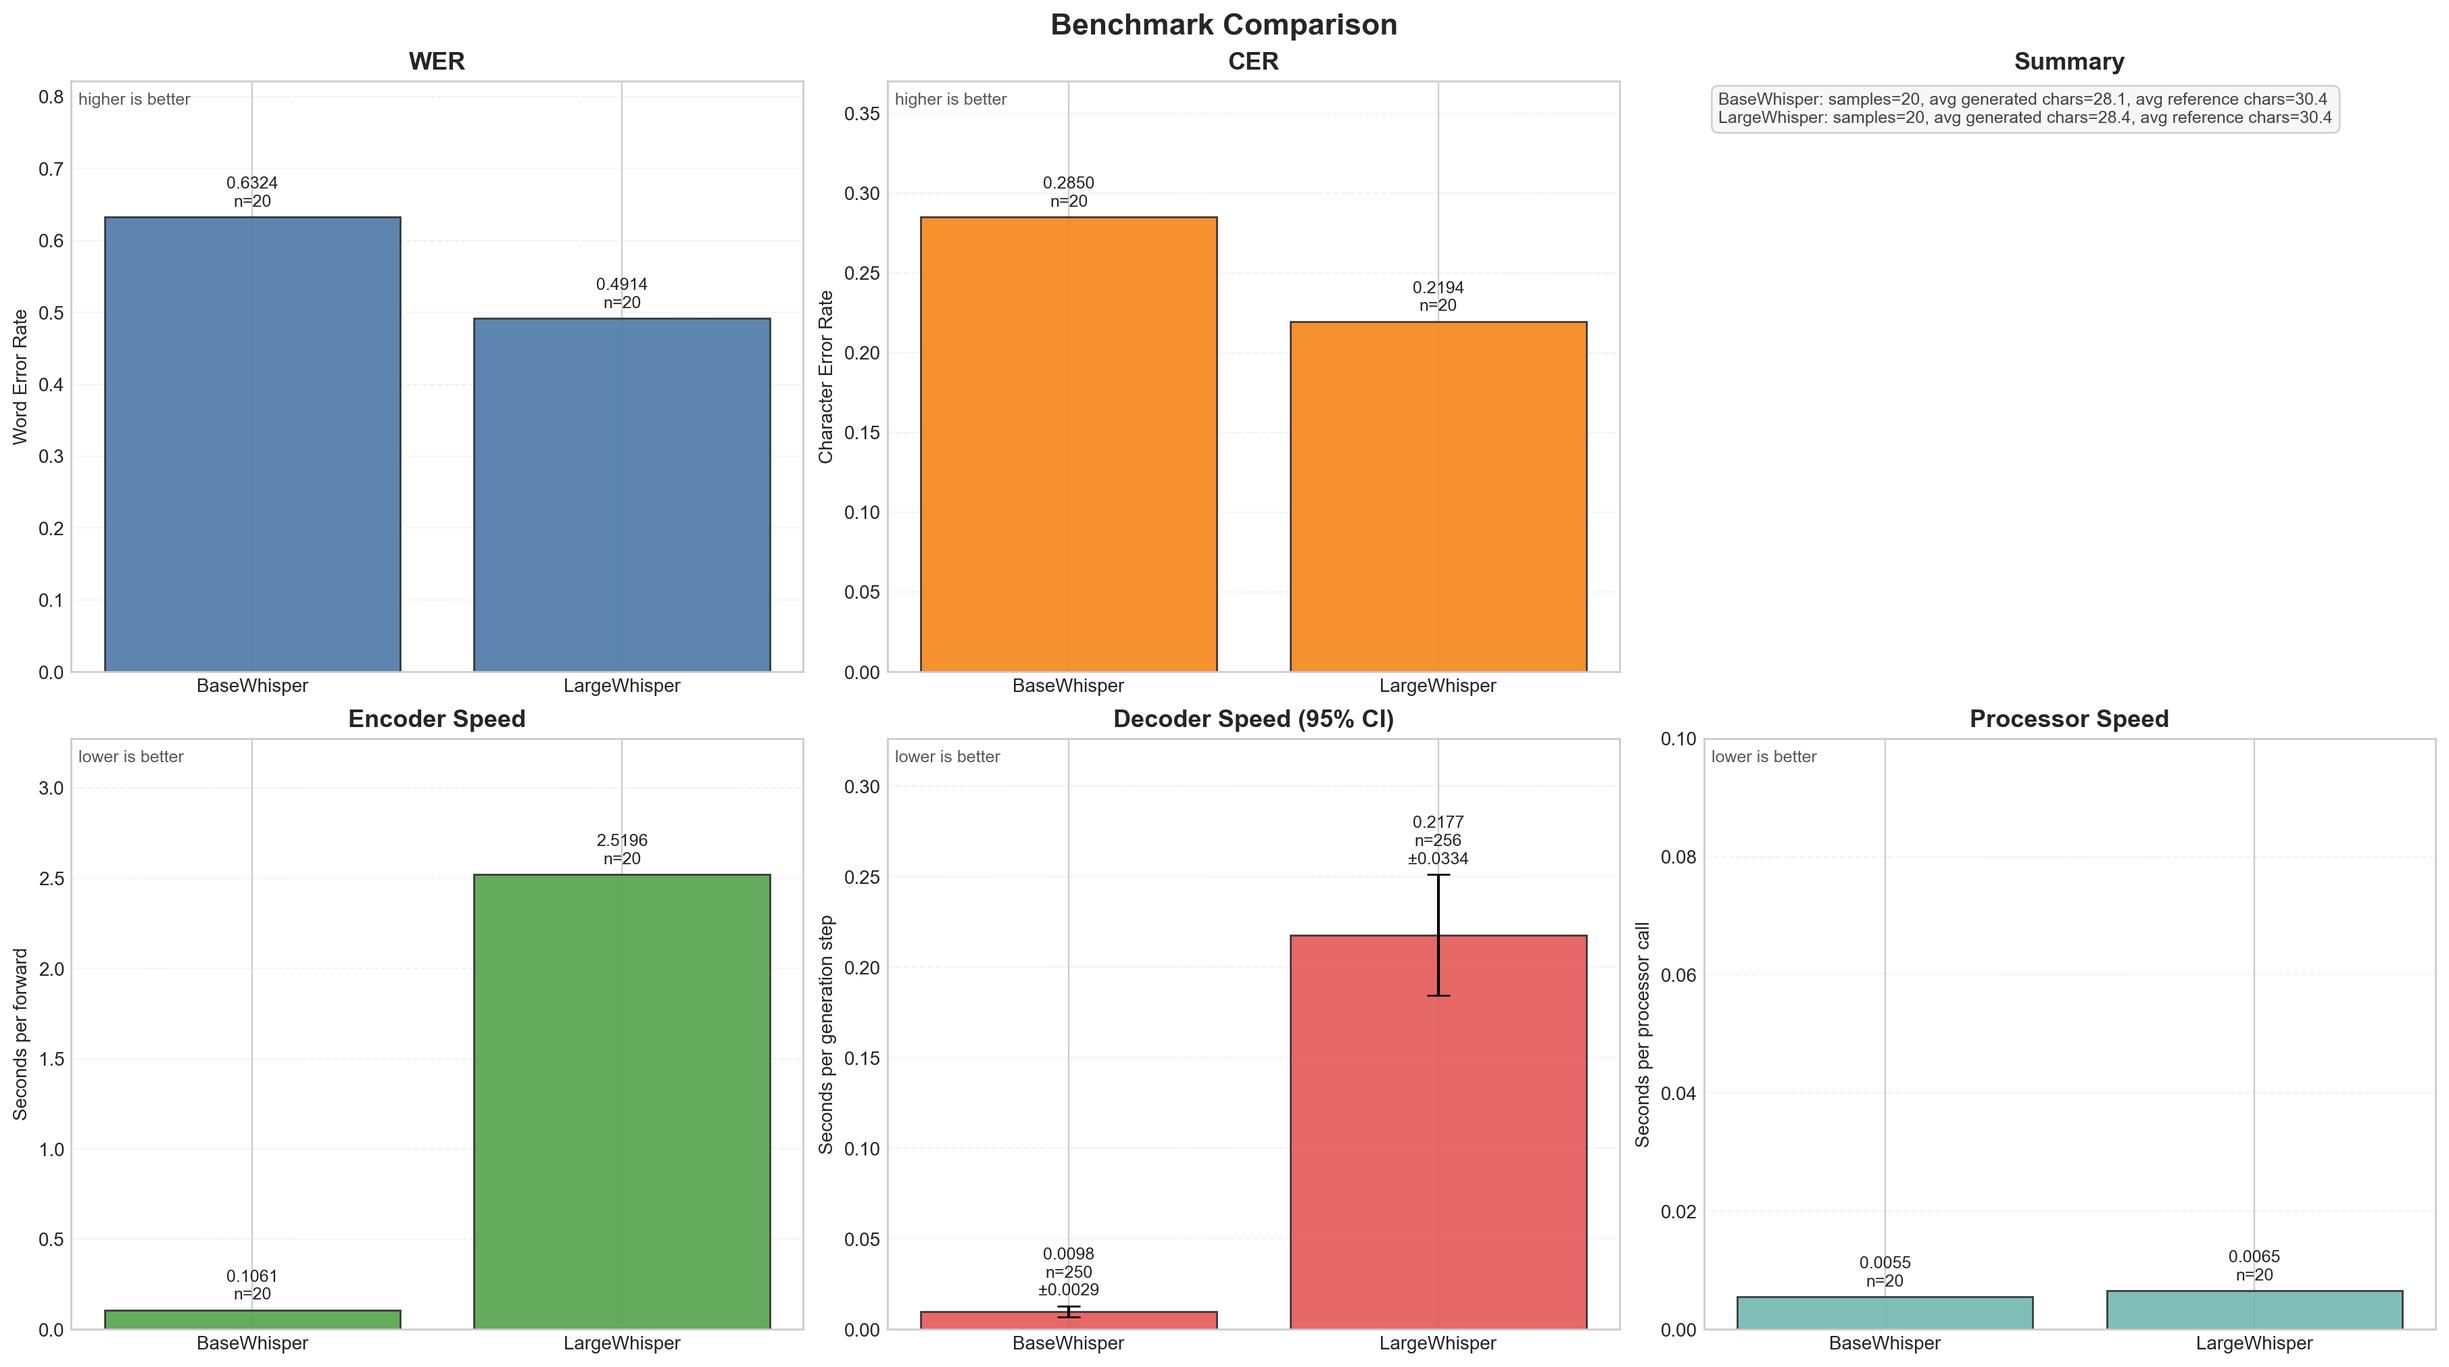
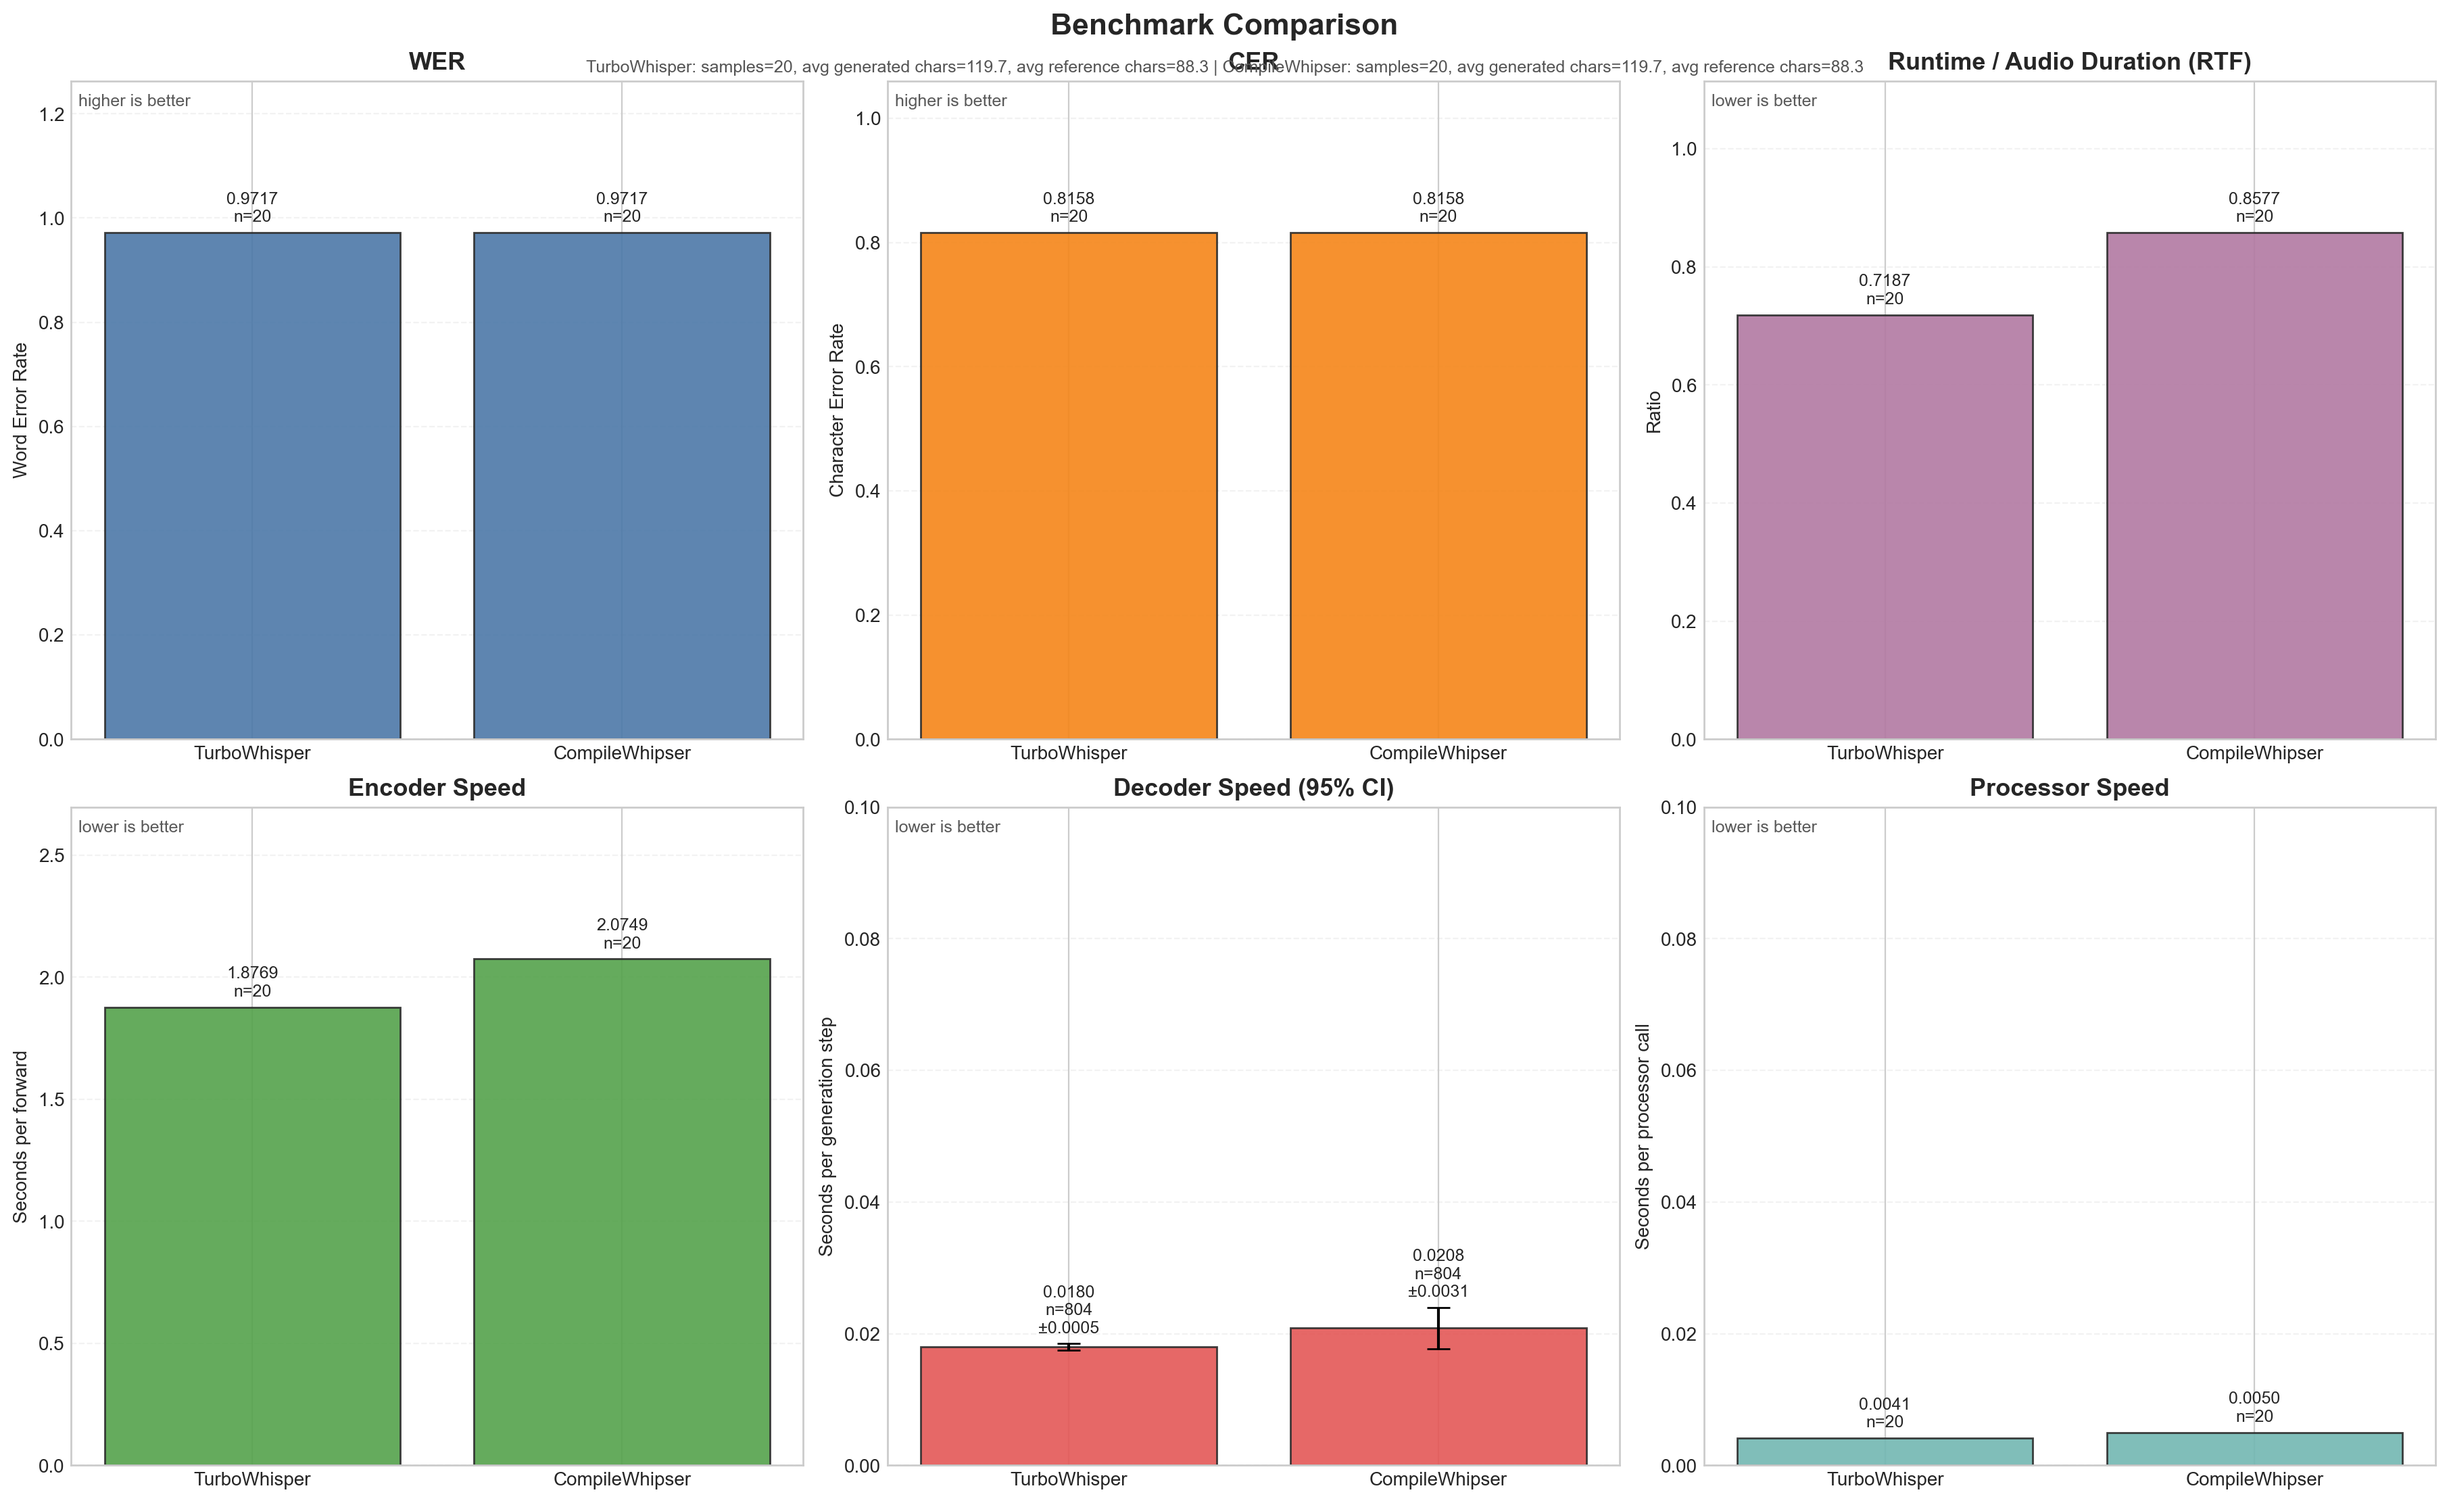
added torch complie and warmup

diff --git a/src/metrics.py b/src/metrics.py
@@ -6,9 +6,10 @@ import torch
 import torch.nn as nn
 from torch.profiler import ProfilerActivity, profile, record_function
 from tqdm import tqdm
-from transformers import WhisperForConditionalGeneration, WhisperProcessor
+from transformers import WhisperProcessor
 
 from audio_datasets import AudioTextDataset
+from baseline_models import BaselineTurbo, TorchCompileTurboParams
 from utils import (
     BenchmarkResult,
     ModuleTimer,
@@ -21,19 +22,15 @@ from utils import (
 # Models are expected to expose `model.encoder` and `model.decoder`.
 @dataclass
 class ModelsForBenchmark:
-    BaseWhisper: nn.Module | None = WhisperForConditionalGeneration.from_pretrained(
-        "openai/whisper-base"
-    )
-    LargeWhisper: nn.Module | None = WhisperForConditionalGeneration.from_pretrained(
-        "openai/whisper-large-v3"
-    ).to(dtype=torch.float)
-
+    TurboWhisper: nn.Module | None = BaselineTurbo()()
+    #LargeWhisper: nn.Module | None = BaselineLarge()()
+    CompileWhipser: nn.Module | None = TorchCompileTurboParams()()
 
 @dataclass
 class ProcessingOptions:
-    BaseWhisper: Any = WhisperProcessor.from_pretrained("openai/whisper-base")
-    LargeWhisper: Any = WhisperProcessor.from_pretrained("openai/whisper-large-v3")
-
+    TurboWhisper: Any = WhisperProcessor.from_pretrained("openai/whisper-large-v3-turbo")
+    #LargeWhisper: Any = WhisperProcessor.from_pretrained("openai/whisper-large-v3")
+    CompileWhipser: Any = WhisperProcessor.from_pretrained("openai/whisper-large-v3-turbo")
 
 class Benchmark:
     def __init__(
@@ -44,6 +41,7 @@ class Benchmark:
     ):
         self.models = models
         self.processors = {}
+        self._warmed_up = set()
         self.device = "cpu" if device == "CPU" else "cuda"
         self.dataset = AudioTextDataset(dataset_name)
         self.profiler_activities = (
@@ -61,6 +59,42 @@ class Benchmark:
         for model in self.models.values():
             model = model.to(self.device)
 
+    def warmup(self, model_name: str):
+        if model_name in self._warmed_up:
+            return
+
+        sample = self.dataset.take(1)
+        if not sample:
+            return
+
+        model = self.models[model_name]
+        processor = self.processors[model_name]
+        encoder_timer = ModuleTimer()
+        decoder_timer = ModuleTimer()
+        original_encoder = encoder_timer.wrap(model.model.encoder)
+        original_decoder = decoder_timer.wrap(model.model.decoder)
+
+        try:
+            audio, _ = sample[0]
+            inputs = processor(
+                audio["array"],
+                sampling_rate=audio["sampling_rate"],
+                return_tensors="pt",
+                return_attention_mask=True,
+            )
+            with torch.inference_mode():
+                model.generate(
+                    input_features=inputs.input_features.to(self.device),
+                    attention_mask=inputs.attention_mask.to(self.device),
+                    language="ru",
+                    task="transcribe",
+                )
+        finally:
+            model.model.encoder.forward = original_encoder
+            model.model.decoder.forward = original_decoder
+
+        self._warmed_up.add(model_name)
+
     def run(self, model_name: str, sample_size: int = 10) -> BenchmarkResult:
         model = self.models[model_name]
         processor = self.processors[model_name]
@@ -69,6 +103,9 @@ class Benchmark:
         cer_hist = []
         generated_texts = []
         original_texts = []
+        audio_time_ratio = []
+        
+        self.warmup(model_name)
 
         encoder_timer = ModuleTimer()
         decoder_timer = ModuleTimer()
@@ -82,6 +119,7 @@ class Benchmark:
                     total=sample_size,
                     desc=f"Benchmarking {model_name}",
                 ):
+                    sample_start = time.perf_counter()
                     processor_start = time.perf_counter()
                     inputs = processor(
                         audio["array"],
@@ -97,7 +135,7 @@ class Benchmark:
                     tokens = model.generate(
                         input_features=input_features,
                         attention_mask=attention_mask,
-                        language="ru",  # или "ru" для golos
+                        language="ru",
                         task="transcribe",
                     )
                     result = processor.batch_decode(tokens, skip_special_tokens=True)[0]
@@ -107,12 +145,16 @@ class Benchmark:
                     cer_hist.append(metrics["cer"])
                     generated_texts.append(result)
                     original_texts.append(text)
+                    sample_runtime = time.perf_counter() - sample_start
+                    audio_duration = len(audio["array"]) / audio["sampling_rate"]
+                    audio_time_ratio.append(sample_runtime / audio_duration)
 
         return BenchmarkResult(
             wer_history=wer_hist,
             cer_history=cer_hist,
             generated_texts=generated_texts,
             original_texts=original_texts,
+            audio_time_ratio=audio_time_ratio,
             encoder_speed=encoder_timer.times,
             decoder_speed=decoder_timer.times,
             processor_speed=processor_speed,
@@ -127,16 +169,16 @@ class Benchmark:
 
 
 if __name__ == "__main__":
-    results_base = Benchmark(
-        dataset_name="golos",
-        models={},
-        device="CPU",
-    ).run("BaseWhisper", sample_size=20)
     results_large = Benchmark(
-        dataset_name="golos",
+        dataset_name="earnings22",
         models={},
         device="CPU",
-    ).run("LargeWhisper", sample_size=20)
-    results = {"BaseWhisper": results_base, "LargeWhisper": results_large}
+    ).run("CompileWhipser", sample_size=20)
+    results_base = Benchmark(
+        dataset_name="earnings22",
+        models={},
+        device="CPU",
+    ).run("TurboWhisper", sample_size=20)
+    results = {"TurboWhisper": results_base, "CompileWhipser": results_large}
     plot_benchmarks(results, "./plots.png")
     plot_profiler_averages(results, "./profiler_plot.png")

diff --git a/src/utils.py b/src/utils.py
@@ -72,6 +72,7 @@ class BenchmarkResult:
     cer_history: list[float]
     generated_texts: list[str]
     original_texts: list[str]
+    audio_time_ratio: list[float]
     encoder_speed: list[float]
     decoder_speed: list[float]
     processor_speed: list[float] = field(default_factory=list)
@@ -166,7 +167,7 @@ def plot_benchmarks(
         raise ValueError("results is empty")
 
     with plt.style.context("seaborn-v0_8-whitegrid"):
-        fig, axes = plt.subplots(2, 3, figsize=(18, 10), constrained_layout=True)
+        fig, axes = plt.subplots(2, 3, figsize=(18, 11), constrained_layout=True)
         fig.suptitle("Benchmark Comparison", fontsize=16, fontweight="bold")
 
         _plot_metric(
@@ -186,6 +187,14 @@ def plot_benchmarks(
             "Character Error Rate",
             "#F58518",
             lower_is_better=False,
+        )
+        _plot_metric(
+            axes[0, 2],
+            results,
+            "audio_time_ratio",
+            "Runtime / Audio Duration (RTF)",
+            "Ratio",
+            "#B279A2",
         )
         _plot_metric(
             axes[1, 0],
@@ -212,7 +221,6 @@ def plot_benchmarks(
             "Seconds per processor call",
             "#72B7B2",
         )
-        axes[0, 2].axis("off")
 
         summary_lines = []
         for name, result in results.items():
@@ -222,22 +230,14 @@ def plot_benchmarks(
                 f"{name}: samples={len(result.wer_history)}, "
                 f"avg generated chars={gen_mean:.1f}, avg reference chars={ref_mean:.1f}"
             )
-        axes[0, 2].set_title("Summary", fontsize=13, fontweight="semibold")
-        axes[0, 2].text(
-            0.02,
-            0.98,
-            "\n".join(summary_lines),
-            ha="left",
+        fig.text(
+            0.5,
+            0.965,
+            " | ".join(summary_lines),
+            ha="center",
             va="top",
             fontsize=9,
-            color="#444444",
-            transform=axes[0, 2].transAxes,
-            bbox={
-                "boxstyle": "round,pad=0.4",
-                "facecolor": "#f7f7f7",
-                "edgecolor": "#d0d0d0",
-                "alpha": 0.95,
-            },
+            color="#555555",
         )
 
         if save_path is not None:

diff --git a/src/baseline_models.py b/src/baseline_models.py
@@ -1,0 +1,66 @@
+from transformers import WhisperForConditionalGeneration
+import torch
+
+class BaselineTurbo:
+    def __init__(self):
+        self.model = WhisperForConditionalGeneration.from_pretrained("openai/whisper-large-v3-turbo").to(dtype=torch.float32)
+    def __call__(self):
+        return self.model
+    def get_timer(self):
+        return None
+
+class BaselineLarge:
+    def __init__(self):
+        self.model = WhisperForConditionalGeneration.from_pretrained("openai/whisper-large-v3").to(dtype=torch.float32)
+    def __call__(self):
+        return self.model
+    def get_timer(self):
+        return None
+
+
+class BaselineTurboParams:
+    def __init__(self):
+        self.model = WhisperForConditionalGeneration.from_pretrained("openai/whisper-large-v3-turbo").to(dtype=torch.float32)
+        self.model.generation_config.do_sample = False
+        self.model.generation_config.return_timestamps = False
+        self.model.generation_config.use_cache = True
+        
+    def __call__(self):
+        return self.model
+    def get_timer(self):
+        return None
+
+
+class TorchCompileTurboParams:
+    def __init__(
+        self,
+        model_name: str = "openai/whisper-large-v3-turbo",
+        dtype: torch.dtype = torch.float32,
+        compile_mode: str = "reduce-overhead",
+        fullgraph: bool = False,
+        dynamic: bool = True,
+    ):
+        self.model = WhisperForConditionalGeneration.from_pretrained(
+            model_name,
+            torch_dtype=dtype,
+        )
+
+        self.model.model.encoder = torch.compile(
+            self.model.model.encoder,
+            mode=compile_mode,
+            fullgraph=fullgraph,
+            dynamic=dynamic,
+        )
+
+        self.model.model.decoder = torch.compile(
+            self.model.model.decoder,
+            mode=compile_mode,
+            fullgraph=fullgraph,
+            dynamic=dynamic,
+        )
+
+    def __call__(self):
+        return self.model
+
+    def get_timer(self):
+        return None

diff --git a/src/audio_datasets.py b/src/audio_datasets.py
@@ -1,13 +1,19 @@
-from itertools import islice
 import io
+from itertools import islice
+
 import numpy as np
 import soundfile as sf
-from datasets import load_dataset, Audio
+import torch
+import torchaudio
+from datasets import Audio, load_dataset
 
 TEXT_COLUMNS = ("text", "sentence", "transcription", "transcript", "normalized_text")
+TARGET_SAMPLE_RATE = 16000
 PRESETS = {
     "librispeech": ("librispeech_asr", "clean", "test"),
     "golos": ("bond005/sberdevices_golos_10h_crowd", None, "validation"),
+    "earnings22": ("distil-whisper/earnings22", "chunked", "test"),
+    "earnings-22": ("distil-whisper/earnings22", "chunked", "test"),
 }
 
 
@@ -34,7 +40,15 @@ class AudioTextDataset:
         )
         if x.ndim == 2:
             x = x.mean(axis=1)
-        return {"array": np.asarray(x, dtype=np.float32), "sampling_rate": int(sr)}
+        x = np.asarray(x, dtype=np.float32)
+        if int(sr) != TARGET_SAMPLE_RATE:
+            x = torchaudio.functional.resample(
+                torch.from_numpy(x),
+                int(sr),
+                TARGET_SAMPLE_RATE,
+            ).numpy()
+            sr = TARGET_SAMPLE_RATE
+        return {"array": x, "sampling_rate": int(sr)}
 
     def _text(self, row):
         for c in TEXT_COLUMNS:
